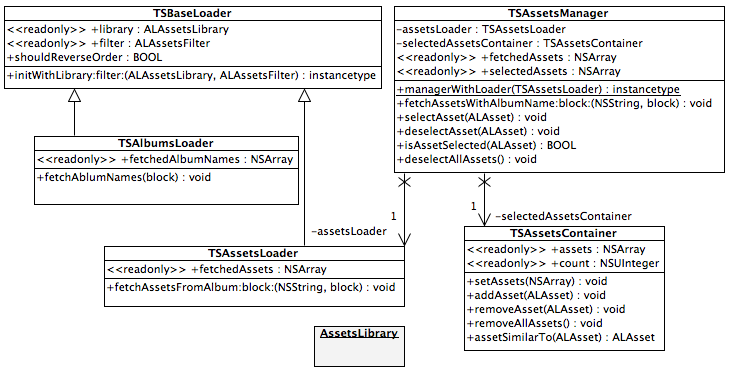
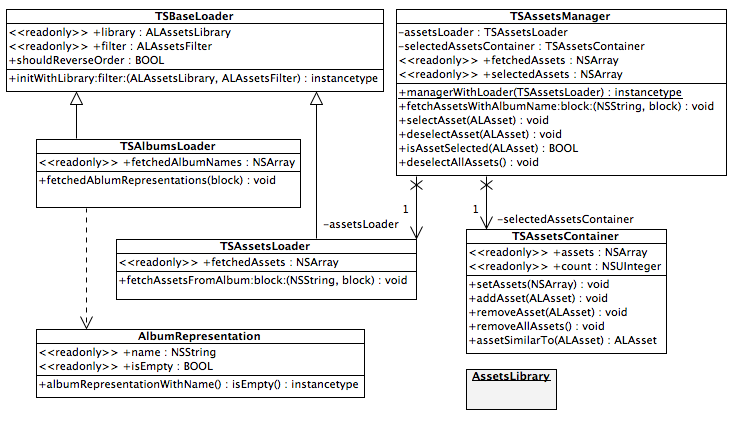
Configuration moved to separate class. Updated diagrams.

Changed region(s): [[0.0, 0.0, 0.9932, 0.9706], [0.0903, 0.5294, 0.1204, 0.5588]]

diff --git a/Classes/Controllers/Albums/TSAlbumsViewController.m b/Classes/Controllers/Albums/TSAlbumsViewController.m
@@ -36,9 +36,9 @@
 
 #pragma mark - Configuration
 - (void)_configureAlbumsLoader {
-    _albumsLoader = [[TSAlbumsLoader alloc] initWithLibrary:[ALAssetsLibrary new] filter:_picker.filter];
-    _albumsLoader.shouldReverseOrder = _picker.shouldReverseAlbumsOrder;
-    _albumsLoader.shouldReturnEmptyAlbums = _picker.shouldShowEmptyAlbums;
+    _albumsLoader = [[TSAlbumsLoader alloc] initWithLibrary:[ALAssetsLibrary new] filter:_picker.configuration.filter];
+    _albumsLoader.shouldReverseOrder = _picker.configuration.shouldReverseAlbumsOrder;
+    _albumsLoader.shouldReturnEmptyAlbums = _picker.configuration.shouldShowEmptyAlbums;
 }
 
 - (void)_setupViews {
@@ -107,12 +107,12 @@ static NSString *const toAssetSegue = @"ToAssets";
     if (showAlbumCell) {
         AlbumCell *cell = (AlbumCell *)[topLevelObjects objectAtIndex:0];
         AlbumRepresentation *albumRepresentation = _albumsLoader.fetchedAlbumRepresentations[indexPath.row];
-        [cell configureWithAlbumRepresentation:albumRepresentation dimmIfEmpty:_picker.shouldDimmEmptyAlbums];
+        [cell configureWithAlbumRepresentation:albumRepresentation dimmIfEmpty:_picker.configuration.shouldDimmEmptyAlbums];
         _cell = cell;
     } else {
         CenteredLabelCell *cell = (CenteredLabelCell *)[topLevelObjects objectAtIndex:0];
         if (_fetchedFirstTime) {
-            cell.label.text = _picker.noAlbumsForSelectedFilter;
+            cell.label.text = _picker.configuration.noAlbumsForSelectedFilter;
         } else {
             cell.label.text = @"";
         }

diff --git a/Classes/Controllers/Assets/TSAssetsViewController.m b/Classes/Controllers/Assets/TSAssetsViewController.m
@@ -47,8 +47,8 @@
 - (void)_setupAssetsManager {
     TSAssetsLoader *assetsLoader =
     [[TSAssetsLoader alloc] initWithLibrary:[ALAssetsLibrary new]
-                                     filter:_picker.filter];
-    assetsLoader.shouldReverseOrder = _picker.shouldReverseAssetsOrder;
+                                     filter:_picker.configuration.filter];
+    assetsLoader.shouldReverseOrder = _picker.configuration.shouldReverseAssetsOrder;
     
     _assetsManager = [TSAssetsManager managerWithLoader:assetsLoader];
 }
@@ -75,7 +75,7 @@
 - (void)_fetchAssets {
     [_assetsManager fetchAssetsWithAlbumName:_albumName block:^(NSUInteger numberOfAssets, NSError *error) {
         if (!error) {
-            if (numberOfAssets > 0 || _picker.shouldShowEmptyAlbums)
+            if (numberOfAssets > 0 || _picker.configuration.shouldShowEmptyAlbums)
                 [_collectionView reloadData];
             else {
                 [self.navigationController popViewControllerAnimated:YES];
@@ -146,7 +146,7 @@ static NSString *cellIdentifier = nil;
 
 #pragma mark - UICollectionViewDelegate
 - (BOOL)collectionView:(UICollectionView *)collectionView shouldSelectItemAtIndexPath:(NSIndexPath *)indexPath {
-    BOOL shouldSelect = (_assetsManager.selectedAssets.count < _picker.numberOfItemsToSelect);
+    BOOL shouldSelect = (_assetsManager.selectedAssets.count < _picker.configuration.numberOfItemsToSelect);
 
     AssetCell *cell = (AssetCell *)[collectionView cellForItemAtIndexPath:indexPath];
     if (cell.isCellSelected) {

diff --git a/TSAssetsPickerController/TSAssetsPickerController/TSViewController.m b/TSAssetsPickerController/TSAssetsPickerController/TSViewController.m
@@ -39,16 +39,16 @@
     if (!_picker) {
         _picker = [TSAssetsPickerController new];
         _picker.delegate = self;
-        _picker.numberOfItemsToSelect = 3;
+        _picker.configuration.numberOfItemsToSelect = 3;
         
-        _picker.filter = [ALAssetsFilter allVideos];
-        _picker.noAlbumsForSelectedFilter = @"Can't find any video. Record some and back.";
+        _picker.configuration.filter = [ALAssetsFilter allVideos];
+        _picker.configuration.noAlbumsForSelectedFilter = @"Can't find any video. Record some and back.";
         
-        _picker.shouldReverseAlbumsOrder = NO;
-        _picker.shouldReverseAssetsOrder = YES;
+        _picker.configuration.shouldReverseAlbumsOrder = NO;
+        _picker.configuration.shouldReverseAssetsOrder = YES;
         
-//        _picker.shouldShowEmptyAlbums = YES;
-//        _picker.shouldDimmEmptyAlbums = NO;
+//        _picker.configuration.shouldShowEmptyAlbums = YES;
+//        _picker.configuration.shouldDimmEmptyAlbums = NO;
     }
 
     [self presentViewController:_picker animated:YES completion:nil];

diff --git a/Classes/Controllers/Picker/TSAssetsPickerController.h b/Classes/Controllers/Picker/TSAssetsPickerController.h
@@ -9,23 +9,13 @@
 #import <UIKit/UIKit.h>
 
 #import <AssetsLibrary/AssetsLibrary.h>
+#import "TSAssetsPickerControllerConfiguration.h"
 
 @protocol TSAssetsPickerControllerDelegate;
 
 @interface TSAssetsPickerController : UINavigationController
 @property (nonatomic, weak) id <TSAssetsPickerControllerDelegate, UINavigationControllerDelegate> delegate;
-
-// Settings
-@property (nonatomic) NSUInteger numberOfItemsToSelect; // default set to 1
-
-@property (nonatomic) ALAssetsFilter *filter; // default Photo
-@property (nonatomic, copy) NSString *noAlbumsForSelectedFilter; // default: No albums for selected filter
-
-@property (nonatomic) BOOL shouldReverseAlbumsOrder; // default set to YES
-@property (nonatomic) BOOL shouldReverseAssetsOrder; // default set to YES;
-
-@property (nonatomic) BOOL shouldShowEmptyAlbums; // default set to NO;
-@property (nonatomic) BOOL shouldDimmEmptyAlbums; // default set to YES;
+@property (nonatomic) TSAssetsPickerControllerConfiguration *configuration;
 
 @end
 

diff --git a/Classes/API Classes/TSAssetsPickerControllerConfiguration.h b/Classes/API Classes/TSAssetsPickerControllerConfiguration.h
@@ -1,0 +1,26 @@
+//
+//  TSAssetsPickerControllerConfiguration.h
+//  TSAssetsPickerController
+//
+//  Created by Tomasz Szulc on 22.02.2014.
+//  Copyright (c) 2014 Tomasz Szulc. All rights reserved.
+//
+
+#import <Foundation/Foundation.h>
+
+@class ALAssetsFilter;
+
+@interface TSAssetsPickerControllerConfiguration : NSObject
+
+@property (nonatomic) NSUInteger numberOfItemsToSelect; // default set to 1
+
+@property (nonatomic) ALAssetsFilter *filter; // default Photo
+@property (nonatomic, copy) NSString *noAlbumsForSelectedFilter; // default: No albums for selected filter
+
+@property (nonatomic) BOOL shouldReverseAlbumsOrder; // default set to YES
+@property (nonatomic) BOOL shouldReverseAssetsOrder; // default set to YES;
+
+@property (nonatomic) BOOL shouldShowEmptyAlbums; // default set to NO;
+@property (nonatomic) BOOL shouldDimmEmptyAlbums; // default set to YES; Works only if shouldShowEmptyAlbums is set to YES
+
+@end

diff --git a/Classes/API Classes/TSAssetsPickerControllerConfiguration.m b/Classes/API Classes/TSAssetsPickerControllerConfiguration.m
@@ -1,0 +1,36 @@
+//
+//  TSAssetsPickerControllerConfiguration.m
+//  TSAssetsPickerController
+//
+//  Created by Tomasz Szulc on 22.02.2014.
+//  Copyright (c) 2014 Tomasz Szulc. All rights reserved.
+//
+
+#import "TSAssetsPickerControllerConfiguration.h"
+
+#import <AssetsLibrary/AssetsLibrary.h>
+
+@implementation TSAssetsPickerControllerConfiguration
+
+- (id)init {
+    self = [super init];
+    if (self) {
+        [self _setDefaultConfiguration];
+    }
+    return self;
+}
+
+- (void)_setDefaultConfiguration {
+    _numberOfItemsToSelect = 1;
+    
+    _filter = [ALAssetsFilter allPhotos];
+    _noAlbumsForSelectedFilter = @"No albums for selected filter";
+    
+    _shouldReverseAlbumsOrder = YES;
+    _shouldReverseAssetsOrder = YES;
+    
+    _shouldShowEmptyAlbums = NO;
+    _shouldDimmEmptyAlbums = YES;
+}
+
+@end

diff --git a/Classes/Controllers/Picker/TSAssetsPickerController.m b/Classes/Controllers/Picker/TSAssetsPickerController.m
@@ -20,7 +20,7 @@
 - (id)init {
     self = [super init];
     if (self) {
-        [self _setup];
+        _configuration = [TSAssetsPickerControllerConfiguration new];
     }
     return self;
 }
@@ -29,16 +29,6 @@
 {
     [super viewDidLoad];
     [self _configureAlbumsViewController];
-}
-
-- (void)_setup {
-    _numberOfItemsToSelect = 1;
-    _filter = [ALAssetsFilter allPhotos];
-    _noAlbumsForSelectedFilter = @"No albums for selected filter";
-    _shouldReverseAlbumsOrder = YES;
-    _shouldReverseAssetsOrder = YES;
-    _shouldShowEmptyAlbums = NO;
-    _shouldDimmEmptyAlbums = YES;
 }
 
 - (void)viewWillAppear:(BOOL)animated {

diff --git a/README.md b/README.md
@@ -5,7 +5,7 @@ TSAssetsPickerController
 
 
 
-TSAssetPickerController is a custom picker controller which allows you to select multiple assets from Photos app on iOS.
+TSAssetPickerController is a custom picker controller which allows you to select multiple assets from Camera Roll.
 
 I decided to share this picker because it's easy to add to the project, easy to maintain and it works very well. This picker is used by [iWrapper app](https://itunes.apple.com/pl/app/iwrapper-superb-screenshots/id549973157?mt=8). Try it and apply to your projects.
 
@@ -25,8 +25,24 @@ It supports photo and video assets. Video assets has thumbnail with little "play
 - Set filters (only Photos, only Videos, All)
 - Select multiple assets from one album
 - Customizable order of displaying assets, last-first, first-first (iWrapper has last-first, it cause that user can't scroll 1000+ elements to get latest asset)
+- Other configurations, looks below
 - Easy to apply in your project
 - Easy to customize
+
+
+Configuration
+========================
+`TSAssetsPickerController` class has `TSAssetsPickerControllerConfiguration` property which is used to keep settings for the picker.
+| Property                      | Type           	| Default value |
+| ----------------------------- | -----------------	| -------------:|
+| numberOfItemsToSelect			| `NSUInteger`		| 1				|
+| filter						| `ALAssetsFilter`	| allPhotos		|
+| noAlbumsForSelectedFilter		| `NSString`		| some string	|
+| shouldReverseAlbumsOrder		| `BOOL`			| YES			|
+| shouldReverseAssetsOrder		| `BOOL`			| YES			|
+| shouldShowEmptyAlbums			| `BOOL`			| NO			|
+| shouldDimmEmptyAlbums			| `BOOL`			| YES			|
+
 
 
 How it works?
@@ -47,32 +63,50 @@ View Controllers
 ![image](https://github.com/tomkowz/TSAssetsPickerController/blob/master/docs/diag2.png?raw=true)
 
 
-TSAlbumsViewController is a list of available albums fetched from Photos app. It is represented as cells in UITableView and uses TSAlbumsLoader. 
-
-TSAssetsViewController is a controller which display assets from selected album. It has UICollectionView and uses TSAssetsManager. 
-
-
 About classes
 =========================
-**TSBaseLoader** with ALAssets objects, and also it keeps information about which filter should be use when browsing albums and assets.
 
-**TSAlbumsLoader** - the same as above, can fetch album names.
+`TSAssetsPickerController` - This is a picker controller. You present this controller if you want to show picker on the screen. This class has `TSAssetsPickerControllerConfiguration` property and delegates your class should conforms to.
 
-**TSAssetsLoader** - the same as TSBaseLoader, can fetch assets from selected album.
+`TSAssetsPickerControllerConfiguration` - This class keeps picker's settings.
 
-**TSAssetsContainer** - This class is container which can store and manage ALAssets objects. It is used by TSAssetsManager class.
 
-**TSAssetsManager** - This classes is used directly by TSAssetsViewController. Instance is initialized with TSAssetsLoader object. It keeps information about fetched and selected assets. It can fetch assets via TSAssetsLoader. Also it can mark assets as selected or deselected and check if asset exists.
+Not important for you but you can read about "low-level" classes:
 
-In View Controllers only TSAlbumsLoader and TSAssetsManager are important. 
+`TSBaseLoader` with `ALAssets` objects, and also it keeps information about which filter should be use when browsing albums and assets.
+
+`TSAlbumsLoader` - the same as above, can fetch album names.
+
+`TSAssetsLoader` - the same as `TSBaseLoader`, can fetch assets from selected album.
+
+`TSAssetsContainer` - This class is container which can store and manage ALAssets objects. It is used by `TSAssetsManager` class.
+
+`TSAssetsManager` - This classes is used directly by `TSAssetsViewController`. Instance is initialized with `TSAssetsLoader` object. It keeps information about fetched and selected assets. It can fetch assets via `TSAssetsLoader`. Also it can mark assets as selected or deselected and check if asset exists.
+
+`AlbumRepresentation` - This class represents album.
 
 How to use
 =========================
 1. Import /Classes directory to your project
-2. Make initialization and push TSAlbumsViewController
+2. Write some init code
 
 ````objc
-    TSAlbumsViewController *_albumsVC; // ivar
-    _albumsVC = [TSAlbumsViewController new];
-    [self.navigationController pushViewController:_albumsVC animated:YES];
+- (IBAction)onOpenPickerPressed:(id)sender {
+    if (!_picker) {
+        _picker = [TSAssetsPickerController new];
+        _picker.delegate = self;
+        _picker.configuration.numberOfItemsToSelect = 3;
+        
+        _picker.configuration.filter = [ALAssetsFilter allVideos];
+        _picker.configuration.noAlbumsForSelectedFilter = @"Can't find any video. Record some and back.";
+        
+        _picker.configuration.shouldReverseAlbumsOrder = NO;
+        _picker.configuration.shouldReverseAssetsOrder = YES;
+        
+//        _picker.configuration.shouldShowEmptyAlbums = YES;
+//        _picker.configuration.shouldDimmEmptyAlbums = NO;
+    }
+
+    [self presentViewController:_picker animated:YES completion:nil];
+}
 ````
